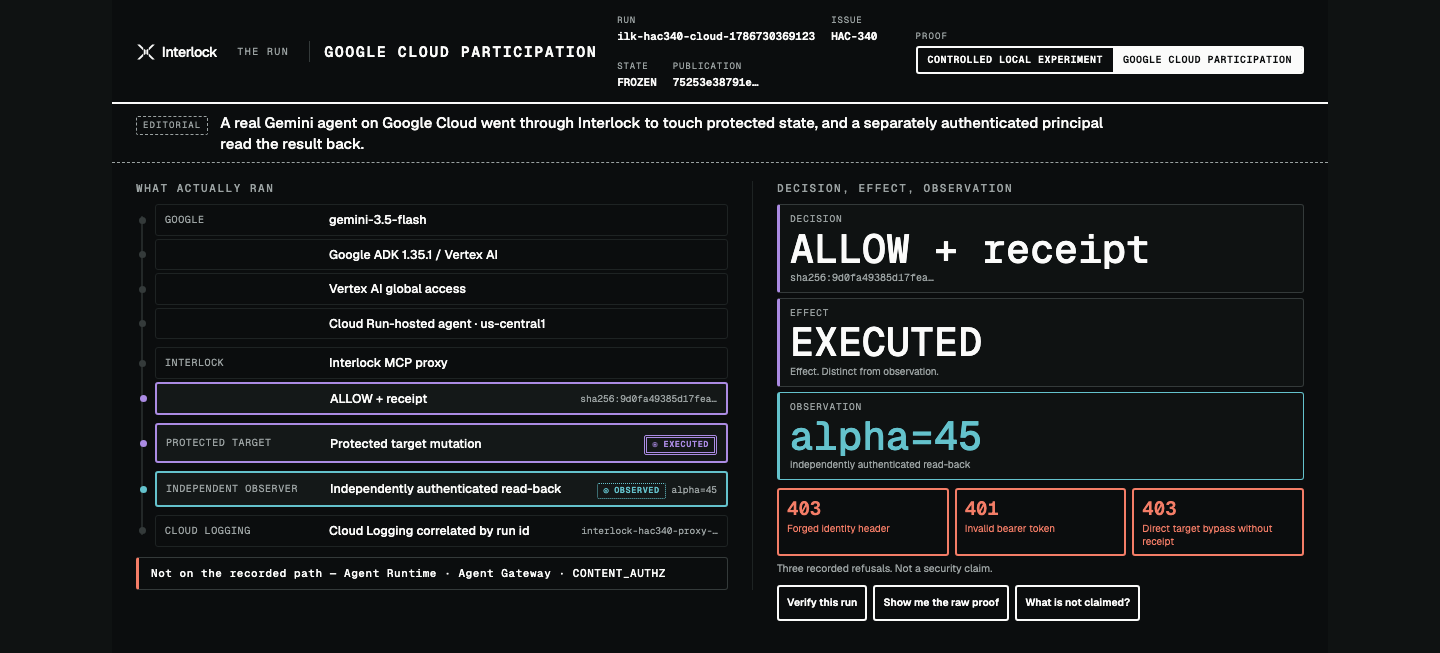
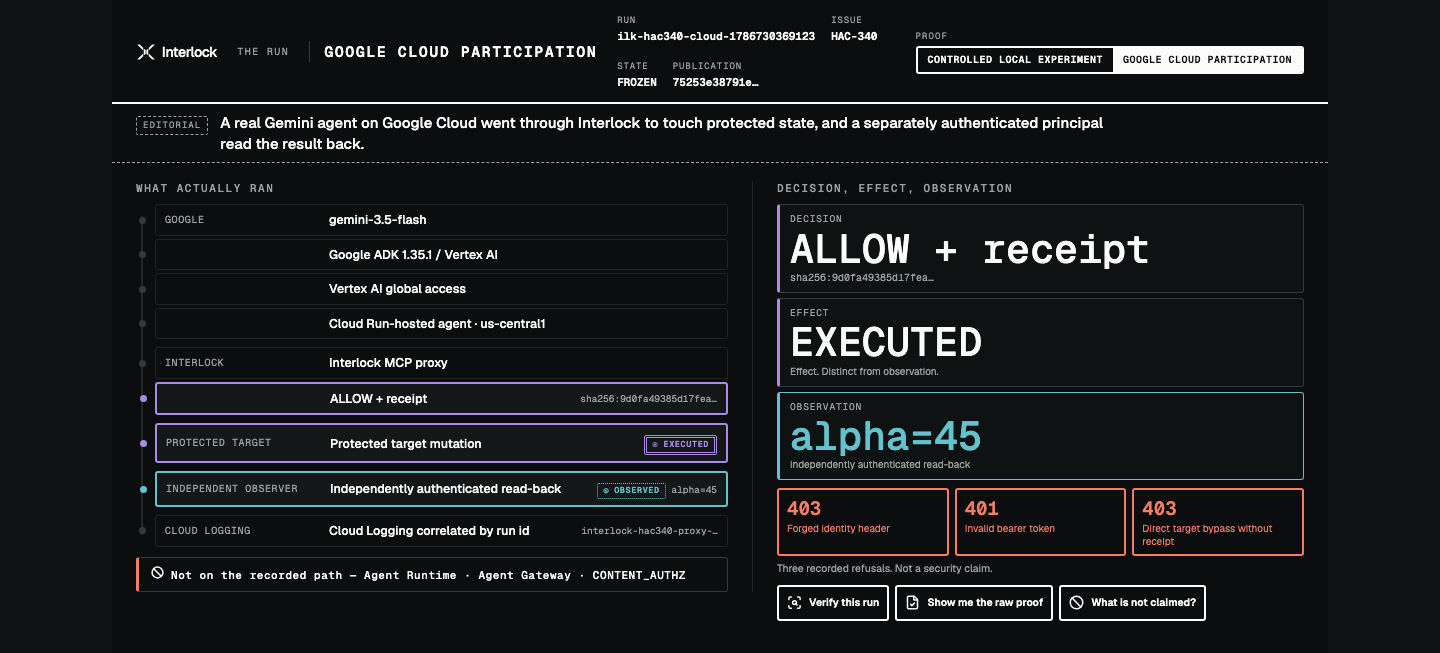
HAC-348: validate the polish, and say plainly what is still unmeasured
Sixteen browser checks, three committed gates and the full test suite against
the post-polish cockpit. All pass. What none of them measure is whether a
human understands the page faster, and this commit does not pretend otherwise.

The human cold read has never been run — not before this polish and not after
it. The kit's own first line has said so since it was written. So there is no
baseline to regress against, and HAC-348's "measurable improvement in a
cognitive-load proxy" is not claimed. media/hac-341/cold-read/
HAC-348-validation.md records that in the first section rather than in a
footnote, and says the dry-run gate should treat comprehension as unmeasured
rather than as passed.

What is measured is everything else the issue asks for. No console or page
error across thirteen judge-reachable addresses. No off-origin request. Zero
tab stops without a focus ring; the only controls a keyboard does not reach are
the five non-current step-rail buttons behind their roving tabindex and Next on
the last step, both intended. Zero of eight rendered glyphs exposed to
assistive technology. CLS 0.0000, with steps 01-04 leaving the bound, the
decision token and the selected outcome exactly stationary — and the shifts on
05 and 06 equal, to the pixel, the height of the control row each step adds to
the panel being read.

Three addresses captured twice each at data-motion="settled" produced identical
sha256 both times, which is the capture-determinism claim stated as a
[…]

Changed region(s): [[0.0938, 0.8576, 0.4688, 0.9188], [0.5312, 0.8882, 0.8438, 0.9495]]

diff --git a/media/hac-341/cold-read/HAC-348-validation.md b/media/hac-341/cold-read/HAC-348-validation.md
@@ -1,0 +1,135 @@
+# HAC-348 — validation of the iconography and motion polish
+
+Covers HAC-345 (semantic iconography), HAC-346 (semantic motion and hold
+states) and HAC-347 (signature gate; dotLottie rejected).
+
+## Status of the human cold read
+
+```
+HUMAN COLD READ: NOT RUN. No comprehension result is claimed here.
+```
+
+This is not a regression from a baseline, because there is no baseline. The
+HAC-341 cold-read kit has been ready since it was written and its own first
+line still reads *"Status: READY_FOR_HUMAN_TEST. Not run. No result is
+claimed."* Three unfamiliar readers have never been run against this surface,
+before the polish or after it.
+
+HAC-348 asks for a measurable improvement in a cognitive-load proxy. That
+requires readers. What is recorded below is everything else the issue asks for
+— the full technical regression, the falsification checks that can be
+mechanised, and the objective properties of the surface that the comprehension
+questions will be asked about — plus an extended kit (pass 3) that tests what
+this polish added.
+
+**The submission dry-run gate should treat comprehension as unmeasured**, not
+as passed. Nothing in this file may be cited as a cold-read result.
+
+## What was measured
+
+Instrument: Playwright 1.56.1 / Chromium 141, against a repository-root static
+server, at commit recorded in the HAC-348 receipt. Sixteen checks, all passing.
+
+### Regression — the committed gates
+
+| gate | result |
+| --- | --- |
+| `pnpm run check` (11 gates: provenance, 4 evidence packets, filmed run, storyboard, cockpit, visuals, identity, judge package) | pass, exit 0 |
+| `pnpm run check:cockpit:visual` at 1440x900, 1280x800, 390x844, 320x900 | pass — 5,686 text nodes over 46 scenarios, 0 contrast failures, minimum 5.15:1 |
+| `npx vitest run` | 658/658 across 22 files |
+
+The vitest count is 658, not the 686 seen on the `feature/meta-383` branch: that
+branch carries `test/hac-336-film-gates.test.mjs` (28 tests), which is not on
+`main`, which is what this branch is cut from. No test was removed or skipped.
+
+Two negative tests and two fixture manifests were repaired rather than relaxed:
+both fixtures now copy `docs/development/cockpit-motion-contract.md` (the gate
+refuses an undocumented sequence, so a fixture without the contract is not a
+copy of this repository), and two tests anchored on exact source strings the
+polish changed.
+
+### Regression — browser behaviour
+
+| check | result |
+| --- | --- |
+| console + page errors across 13 judge-reachable addresses | 0 |
+| off-origin requests | 0 — every request same-origin, no font, icon or runtime CDN |
+| keyboard traversal, visible focus | 15 distinct tab stops, 0 without a focus ring |
+| controls unreachable by keyboard | the 5 non-current step-rail buttons (roving `tabindex="-1"`, reached with arrow keys) and `Next` on the last step (`disabled`). Both intended |
+| buttons without an accessible name | 0 |
+| icons exposed to assistive technology | 0 of the 8 rendered on L1 — every glyph `aria-hidden`, no `<title>`, no `role="img"` |
+| layout shift obscuring a proof value | none. CLS 0.0000. Steps 01–04 leave the bound, the decision token and the selected outcome exactly stationary; steps 05 and 06 move the spine by 44px and 34px, which is exactly the height of the control row each step adds to the panel being read. No value left the 900px frame |
+| deep links, degraded states, refused addresses | 13 addresses render their declared state; unknown run, unknown guided beat and cross-class addresses all refuse rather than substitute |
+
+### Regression — proof-class separation
+
+Switching to the cloud class from mid-walk replaces the whole context:
+`data-guide-state` becomes `none`, the arm switcher and the decision gate are
+gone, and no `140 > 130`, `120 <= 130` or `WITHHOLD_SERIALIZE` appears. Switching
+back carries no receipt, `EXECUTED` or `alpha=45`.
+
+### Regression — evidence integrity
+
+The frozen HAC-343 comparison renders 6 dimensions with 0 unbound cells and no
+scaffold banner. Values are unchanged, e.g. `Safety result = 2/2 (100.0%)` and
+`Concurrency cost = SPR 2/2 (100.0%) at unsafe-joint-state rate 2/2 (100.0%) —
+UNSAFE, not safe parallelism`. The cockpit gate re-derives every HAC-330 arm
+value from `experiments/hac-330/evidence/arms.json` on each run and still
+reports `3 frozen arms, checks 24/24`.
+
+### Motion — determinism and equivalence
+
+| property | measurement |
+| --- | --- |
+| named hold state | `data-motion="settled"` reached after every sequence: steps 02→06 in 387/365/367/367/284ms and an arm change in 410ms, against a 700ms `--dur-hold` budget |
+| capture determinism | 3 addresses, captured twice each at `data-motion="settled"`, identical sha256 both times |
+| first paint under `?static=1`, OS `prefers-reduced-motion`, and the manual control | already `settled`, 0 animations running |
+| staged children under the manual control | 0 animating — the descendant kill works where zeroing the duration tokens does not |
+| semantic equivalence, motion vs `?static=1` | rendered text identical, character for character |
+| semantic equivalence, motion vs OS reduced motion | identical except the motion control itself: `REDUCE MOTION` is replaced by the status `REDUCED MOTION · SYSTEM PREFERENCE` plus its screen-reader explanation. Every evidence value, marker, decision token, gate caption and outcome is the same |
+
+### Iconography — the properties the comprehension questions will test
+
+| property | measurement |
+| --- | --- |
+| vocabulary | 12 concepts, 12 vendored glyphs, bijective; gate refuses a concept drawn two ways or a glyph meaning two things |
+| drift | every inlined path body byte-compared against `assets/icons/lucide/*.svg`; the bytes themselves digest-gated as `IL-ICON-001` |
+| generic stand-in for the mechanism | none — the gate refuses any `lock`, `shield`, `key` or `gate` name entering the generic set |
+| persistent action row | 4 controls, 4 distinct glyphs, every one keeping a 3–5 word visible label |
+| state without colour | under `filter: grayscale(1)`, the two outcome states remain two different closed forms (`circle-x` / `circle-check-big`) each with its own verdict sentence |
+| runtime dependency added | none |
+
+### The gate — position matches the record on every arm
+
+| arm | recorded decision | gate | leaves drawn | caption |
+| --- | --- | --- | ---: | --- |
+| `baseline` | none (Interlock disabled) | `absent` | 0 | Gate not engaged / Interlock disabled in this arm |
+| `treatment` | `WITHHOLD_SERIALIZE` | `closed` | 2 | Gate closed / parallel execution withheld |
+| `perturbed` | `ALLOW_PARALLEL` | `open` | 2 | Gate open / parallel execution permitted |
+
+## Falsification checks
+
+HAC-348 fails the polish if a reader infers any of eight things. Four can be
+checked mechanically and are; four require readers and are not claimed.
+
+| inference | checkable? | status |
+| --- | --- | --- |
+| HAC-330 and HAC-340 are one experiment | yes | refuted mechanically — no artifact of either class appears in the other, gated on every run |
+| unevidenced Agent Runtime / Gateway participation | yes | refuted — `Not on the recorded path` names both, and the gate refuses the `AUTHORIZED` lifecycle vocabulary |
+| pass/fail from colour alone | yes | refuted — greyscale check above |
+| a generic security icon represents the mechanism | yes | refuted — the vocabulary cannot contain one |
+| animation timing equals execution timing | no | **unmeasured.** Mitigated by design: no sequence exceeds 400ms, none is on a timeline, and `FROZEN ARM · NOT RECOMPUTED` sits under every decision |
+| the animation produced the decision | no | **unmeasured.** Mitigated: the gate has no animation of its own, and HAC-347's deliberation sequence was rejected outright |
+| the gate is a padlock rather than evidence-bound authorization | no | **unmeasured.** Pass 3 Q7 exists to catch it |
+| an icon is ambiguous or carries meaning alone | no | **unmeasured.** Pass 3 Q9 exists to catch it |
+
+## What would fail this polish
+
+Run the kit. If pass 3 shows a reader taking an icon for a different concept,
+reading the gate as a padlock, or attributing the decision to the animation,
+remove the offending treatment. Do not explain it to the next reader, and do
+not keep it because a later reader got it right.
+
+The three commits are separable — `HAC-345` (iconography), `HAC-346` (motion),
+`HAC-347` (gate) — so a single failed hypothesis can be reverted without taking
+the other two with it.

diff --git a/media/hac-341/cold-read/response-sheet.md b/media/hac-341/cold-read/response-sheet.md
@@ -93,6 +93,71 @@ If N, which diverged and how:
 
 ---
 
+## Pass 3 — what the HAC-345/346/347 polish added
+
+Asked after pass 2, on the default URL, mouse allowed. These are diagnostic,
+not scored: they exist to catch a treatment that reads well to its author.
+
+**Q6 — "Walk me through it: evidence, then the threshold, then the decision,
+then what was permitted or refused."** Do not prompt. Do not name the stages.
+
+```
+verbatim:
+
+
+
+```
+Reached decision/permission without narration?  **Y / N**
+Reread any region more than once?  which:
+
+```
+
+```
+
+**Q7 — pointing at the mark beside the decision: "What is that showing you?"**
+
+```
+verbatim:
+
+
+
+```
+Understood it as the state of an evidence-bound gate?  **Y / N**
+Read it as a logo, a status light, or decoration?  **Y / N**
+
+**Q8 — "Was there anything on the page that moved? Did it help or distract?"**
+
+```
+verbatim:
+
+
+
+```
+
+**Q9 — for each icon the reader used to find something, ask what it meant.**
+Record any that were read as something other than the concept below.
+
+```
+route         proof path / walkthrough      read as: ______________________
+scan-search   inspect evidence              read as: ______________________
+git-compare   controlled comparison         read as: ______________________
+gauge         the bound / threshold         read as: ______________________
+git-branch    the revision evidence is bound to
+                                            read as: ______________________
+circle-check  outcome holds                 read as: ______________________
+circle-x      outcome breaches its bound    read as: ______________________
+triangle      qualified / unavailable       read as: ______________________
+ban           refused / outside the claim   read as: ______________________
+rotate-ccw    replay a recorded arm         read as: ______________________
+file-check    the frozen raw artifact       read as: ______________________
+external      leaves for published evidence read as: ______________________
+```
+
+Any icon read as a *different concept* is an ambiguity finding. Remove or
+revise that icon — do not explain it to the next reader.
+
+---
+
 ## Automatic failures — tick any that occurred
 
 ```
@@ -105,6 +170,11 @@ If N, which diverged and how:
 [ ] concluded Interlock is universally safe / production-ready
 [ ] concluded Interlock prevents collisions in general
 [ ] keyboard or reduced-motion pass gave a different semantic answer
+[ ] believed the animation timing showed how long anything took to execute
+[ ] believed the animation produced or caused the Interlock decision
+[ ] read the gate as a padlock, a security badge, or a general safety claim
+[ ] read the open gate as the good/safe outcome
+[ ] took an icon as the only evidence for a proof or status meaning
 ```
 
 Any tick = this reader is a **FAIL**, whatever the Y/N answers above.

diff --git a/media/hac-341/cold-read/README.md b/media/hac-341/cold-read/README.md
@@ -59,6 +59,22 @@ Open the L1 default URL. Start the timer.
 Then repeat steps 1–4 with `&static=1` and **keyboard only** (no mouse). The
 semantic answers must match; presentation may differ.
 
+Then run **pass 3**, on the default URL, mouse allowed. These questions test
+what HAC-345, HAC-346 and HAC-347 added. They are diagnostic, not scored.
+
+6. *"Walk me through it: evidence, then the threshold, then the decision, then
+   what was permitted or refused."* Say nothing else. Do not name the stages.
+7. Point at the mark beside the decision — **do not name it** — and ask *"What
+   is that showing you?"*
+8. *"Was there anything on the page that moved? Did it help or distract?"*
+9. For each icon the reader used to find something, point at it and ask *"What
+   does that mean?"* Record the answer verbatim, against the concept list on
+   the response sheet.
+
+An icon a reader reads as a *different concept* is an ambiguity finding: remove
+or revise it. Do not explain it to the next reader, and do not keep it because
+the second reader got it right.
+
 ## Targets
 
 | # | Question | Target |
@@ -80,7 +96,13 @@ regardless of questions 1–4:
   `EXECUTED` as `OBSERVED`;
 - a reader concludes Interlock is **universally** safe, production-ready, or
   that it prevents collisions in general;
-- the keyboard/reduced-motion pass yields a **different semantic answer**.
+- the keyboard/reduced-motion pass yields a **different semantic answer**;
+- a reader believes the **animation timing** shows how long something took to
+  execute, or that the **animation produced** the Interlock decision;
+- a reader reads the gate beside the decision as a **padlock, a security badge
+  or a general safety claim**, rather than as the state of an evidence-bound
+  authorization;
+- a reader takes an **icon as the only evidence** for a proof or status meaning.
 
 ## Recording the result
 
